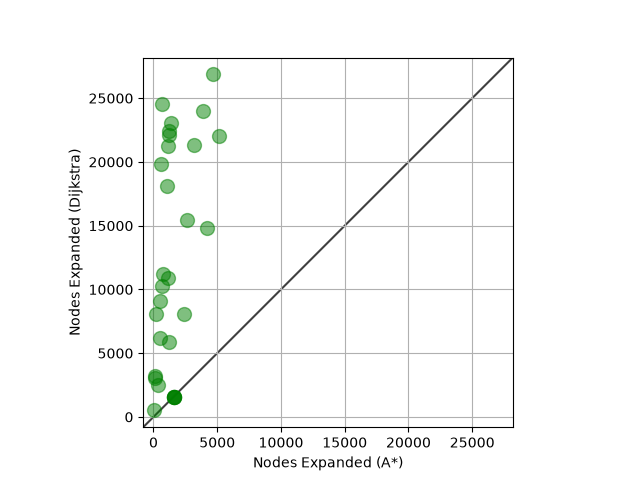
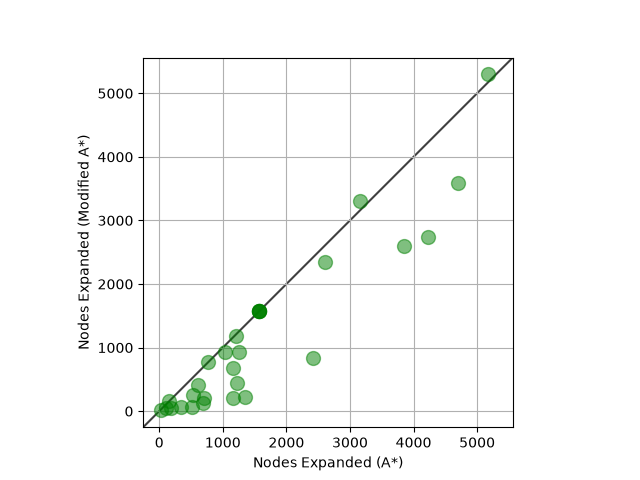
Updated AStar search to initialize with an optional parameter heuristic_multiplier = 1

diff --git a/starter/main.py b/starter/main.py
@@ -36,12 +36,15 @@ def main():
     gridded_map = Map("dao-map/brc000d.map")
     dijkstra = Dijkstra(gridded_map)
     astar = AStar(gridded_map)
+    modified_astar = AStar(gridded_map, 2)
     
     nodes_expanded_dijkstra = []  
     nodes_expanded_astar = []
+    nodes_expanded_modified_astar = []
 
     time_dijkstra = []  
     time_astar = []
+    time_modified_astar = []
 
     start_states = []
     goal_states = []
@@ -96,14 +99,26 @@ def main():
             print("Is the path correct?", verified_path)
             print()
 
+        start = start_states[i]
+        goal = goal_states[i]
+    
+        time_start = time.time()
+        path, cost, expanded_astar = modified_astar.search(start, goal)
+        time_end = time.time()
+
+        nodes_expanded_modified_astar.append(expanded_astar)
+        time_modified_astar.append(time_end - time_start)
+
         gridded_map.plot_map(dijkstra.get_closed_data(), start, goal, 'solution-maps/dijkstra_' + str(i + 1))
         gridded_map.plot_map(astar.get_closed_data(), start, goal, 'solution-maps/astar_' + str(i + 1))
-
+        gridded_map.plot_map(modified_astar.get_closed_data(), start, goal, 'solution-maps/modified_astar_' + str(i + 1))
 
     from search.plot_results import PlotResults
     plotter = PlotResults()
     plotter.plot_results(nodes_expanded_astar, nodes_expanded_dijkstra, "Nodes Expanded (A*)", "Nodes Expanded (Dijkstra)", "nodes_expanded")
     plotter.plot_results(time_astar, time_dijkstra, "Running Time (A*)", "Running Time (Dijkstra)", "running_time")
+    plotter.plot_results(nodes_expanded_astar, nodes_expanded_modified_astar, "Nodes Expanded (A*)", "Nodes Expanded (Modified A*)", "nodes_expanded")
+    plotter.plot_results(time_astar, time_modified_astar, "Running Time (A*)", "Running Time (Modified A*)", "running_time")
 
 if __name__ == "__main__":
     main()

diff --git a/starter/search/algorithms.py b/starter/search/algorithms.py
@@ -50,8 +50,9 @@ class Dijkstra:
         return self.closed_list
 
 class AStar:
-    def __init__(self, gridded_map):
+    def __init__(self, gridded_map, heuristic_multiplier = 1):
         self.gridded_map = gridded_map
+        self.heuristic_multiplier = heuristic_multiplier
         self.frontier: list[State] = []
         self.closed_list: dict[int, State] = {}
 
@@ -71,7 +72,7 @@ class AStar:
                 if child.state_hash() not in self.closed_list:
                     d_x = abs(child.get_x() - g_x)
                     d_y = abs(child.get_y() - g_y)
-                    h = 1.5 * min(d_x, d_y) + abs(d_x - d_y)
+                    h = 1.5 * min(d_x, d_y) + abs(d_x - d_y) * self.heuristic_multiplier
                     child.set_cost(child.get_g() + h)
                     child.set_parent(current)
                     heapq.heappush(self.frontier, child)
